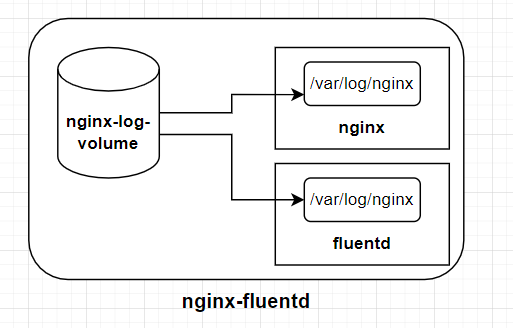
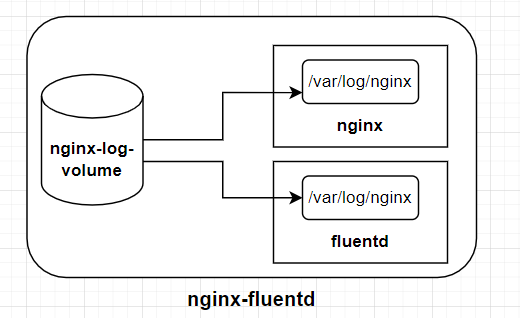
update: update some image and fix some explaination

diff --git a/26-Volume.md b/26-Volume.md
@@ -18,7 +18,7 @@
 
 在pod中同樣有許多的目錄，假如我們想在pod消失後仍保留特定的資料，例如將pod中的「/var/log」目錄保存下來，這同樣也能通過「掛載」的方式來達成。
 
-所以我們需要一顆「硬碟」來存資料，k8s提供了`volume`擔任「硬碟」的角色，讓我們可以將一個`volume`掛載到pod中的某個目錄下:
+所以我們需要一顆「硬碟」來儲存資料，k8s提供了`volume`擔任「硬碟」的角色，讓我們可以將一個`volume`掛載到pod中的某個目錄下:
 ![volume](26-2-volume.png)
 
 除了保存資料之外，`volume`還有另一個用途: 讓pod中的多個container共享資料。
@@ -87,7 +87,7 @@ spec:
 ![emptyDir](26-3-emptyDir.png)
 
 如此一來，一旦`nginx`寫入log資料，`fluentd`就能透過讀取掛載在自己/var/log/nginx目錄下的`nginx-log-volume`，來收集`nginx`的log。
-> 在[Day 15]有使用curl測試過共享的效果，需要的話可以回去翻一下
+> 在[Day 15](15-1-container-in-pod.md)有使用curl測試過共享的效果，需要的話可以回去翻一下
 
 **補充**
 
@@ -99,7 +99,7 @@ spec:
 
 **範例**
 
-> 在這個範例中，我們會使用`hostPath`來指定自訂的html來取代nginx的預設網頁
+> 在這個範例中，我們使用`hostPath`來指定自訂的html來取代nginx的預設網頁
 
 * 首先，在node上建立一個目錄:
 
@@ -127,6 +127,7 @@ EOF
 ```
 
 * 然後創建pod的yaml檔:
+
 ```yaml
 apiVersion: v1
 kind: Pod
@@ -150,7 +151,9 @@ spec:
       path: /tmp/test-html
 ```
 
-> 如此一來，nginx容器中的「/usr/share/nginx/html」底下的檔案就會被「/tmp/test-html」中的「index.html」取代。
+> 如此一來，nginx容器中的「/usr/share/nginx/html」底下就會是「/tmp/test-html」中的「index.html」:
+
+![hostPath](26-4-hostpath.png)
 
 
 * 創建pod後，檢查狀態順便看一下ip:
@@ -185,9 +188,8 @@ curl 10.42.0.9:80
 
 **提醒**
 
-雖然`hostPath`用起來相當簡單，但是會有安全上的疑慮存在，一般建議掛載成「read-only」，或使用等下會介紹的`PersistentVolume`來取代
+雖然`hostPath`用起來相當簡單，但是會有安全上的疑慮，例如不明寫入會直接影響到host。因此一般建議掛載成「read-only」模式:
 
-* 掛載成「read-only」:
 
 ```yaml
 ...省略...
@@ -243,7 +245,10 @@ spec:
       secretName: user-data-secret
   ```
 
-  > 其實configMap和secret的使用方式很像
+  > 其實configMap和secret的使用方式很像。掛載後長這樣:
+
+  ![configMap-secret](26-5-config-secret.png)
+
 
   * 建立pod後，透過`kubectl exec`來檢查是否有成功掛載:
 
@@ -260,4 +265,5 @@ $ kubectl exec -it nginx -- ls /etc/secret/PASSWORD
 # References
 
 [volume](https://kubernetes.io/docs/concepts/storage/volumes/#hostpath)
+
 [configmap as volume](https://kubernetes.io/docs/tasks/configure-pod-container/configure-pod-configmap/#add-configmap-data-to-a-volume)
